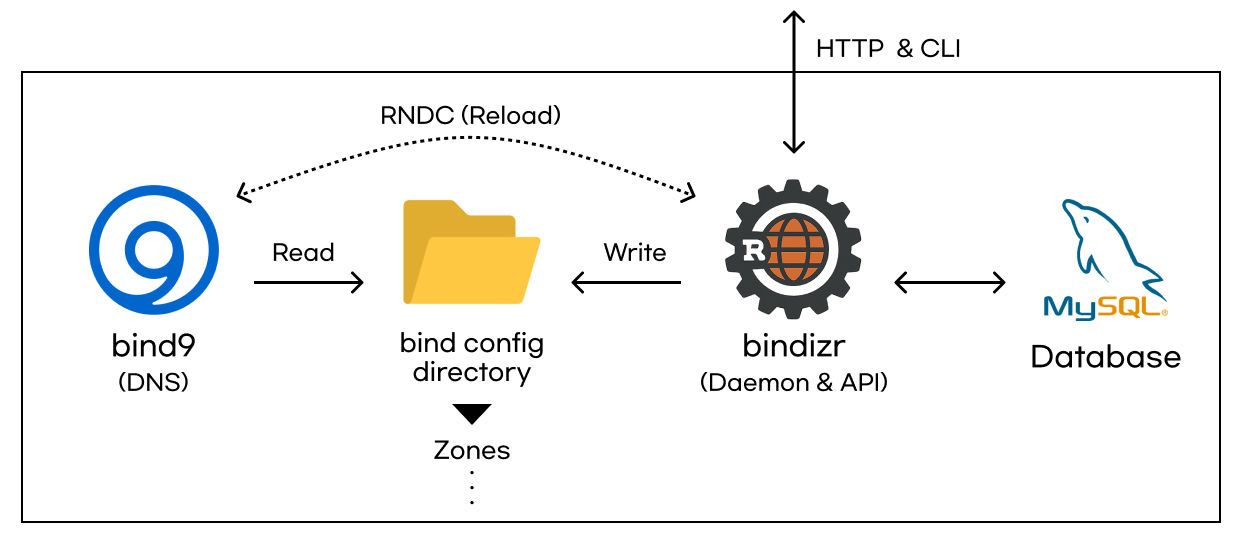
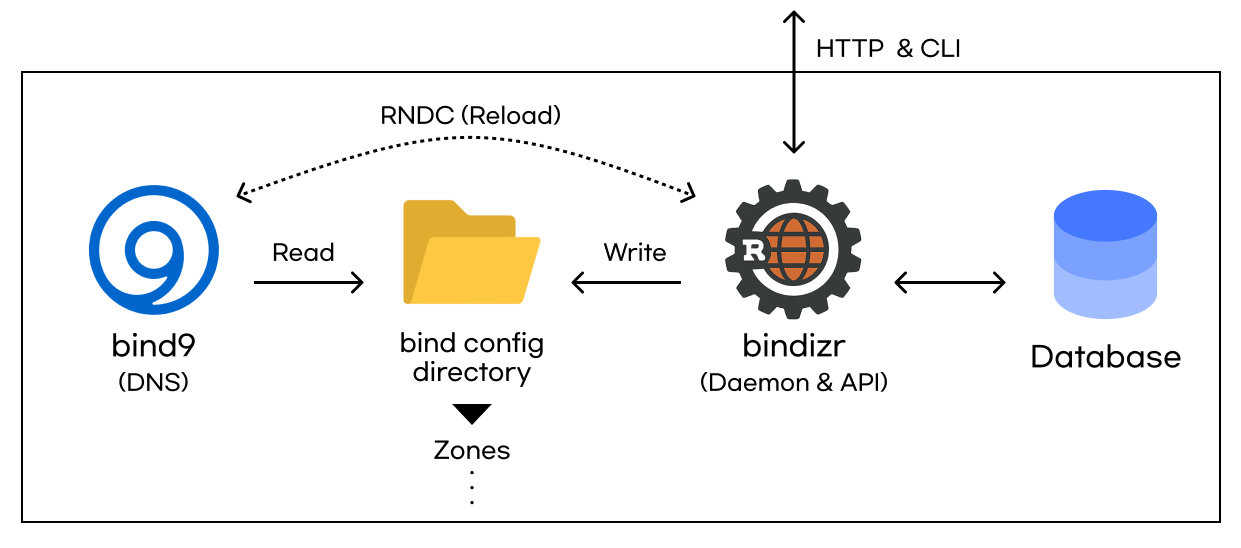
feat: update README

Changed region(s): [[0.8268, 0.3412, 0.9492, 0.5894]]

diff --git a/README.md b/README.md
@@ -21,7 +21,7 @@ DNS Synchronization Service for BIND9
 
 ## Concepts
 
-**Bindizr** is a Rust-based daemon and HTTP API that synchronizes DNS records between bind9 and a MySQL database.
+**Bindizr** is a Rust-based daemon and HTTP API that synchronizes DNS records between bind9 and a database (MySQL, PostgreSQL, or SQLite).
 
 - It reads and writes zone configurations from a bind config directory.
 
@@ -232,7 +232,7 @@ $ curl -H "Authorization: Bearer YOUR_TOKEN" http://localhost:3000/zones
 This project relies on the following core dependencies:
 
 - [`axum`](https://docs.rs/axum/latest/axum/) – A web application framework for building fast and modular APIs in Rust.
-- [`mysql`](https://crates.io/crates/mysql) – A MySQL database driver for Rust.
+- [`sqlx`](https://docs.rs/sqlx/latest/sqlx/) - An async, pure Rust SQL crate featuring compile-time checked queries without a DSL.
 - [`rndc`](https://crates.io/crates/rndc) – A library for interacting with BIND's Remote Name Daemon Control (RNDC) protocol.
 
 

diff --git a/README.Debian.md b/README.Debian.md
@@ -4,7 +4,7 @@ Bindizr is a Rust-based daemon that synchronizes DNS zone records between BIND9 
 It provides an HTTP API for managing DNS zones and automatically applies changes to BIND9 via RNDC.
 
 Main Features:
-  - Synchronize BIND9 DNS zone files with MySQL database.
+- Synchronize BIND9 DNS zone files with MySQL, PostgreSQL, or SQLite database.
   - Expose HTTP API for external management.
   - Automatically reload BIND9 zones after updates.
   - Token-based API authentication.
